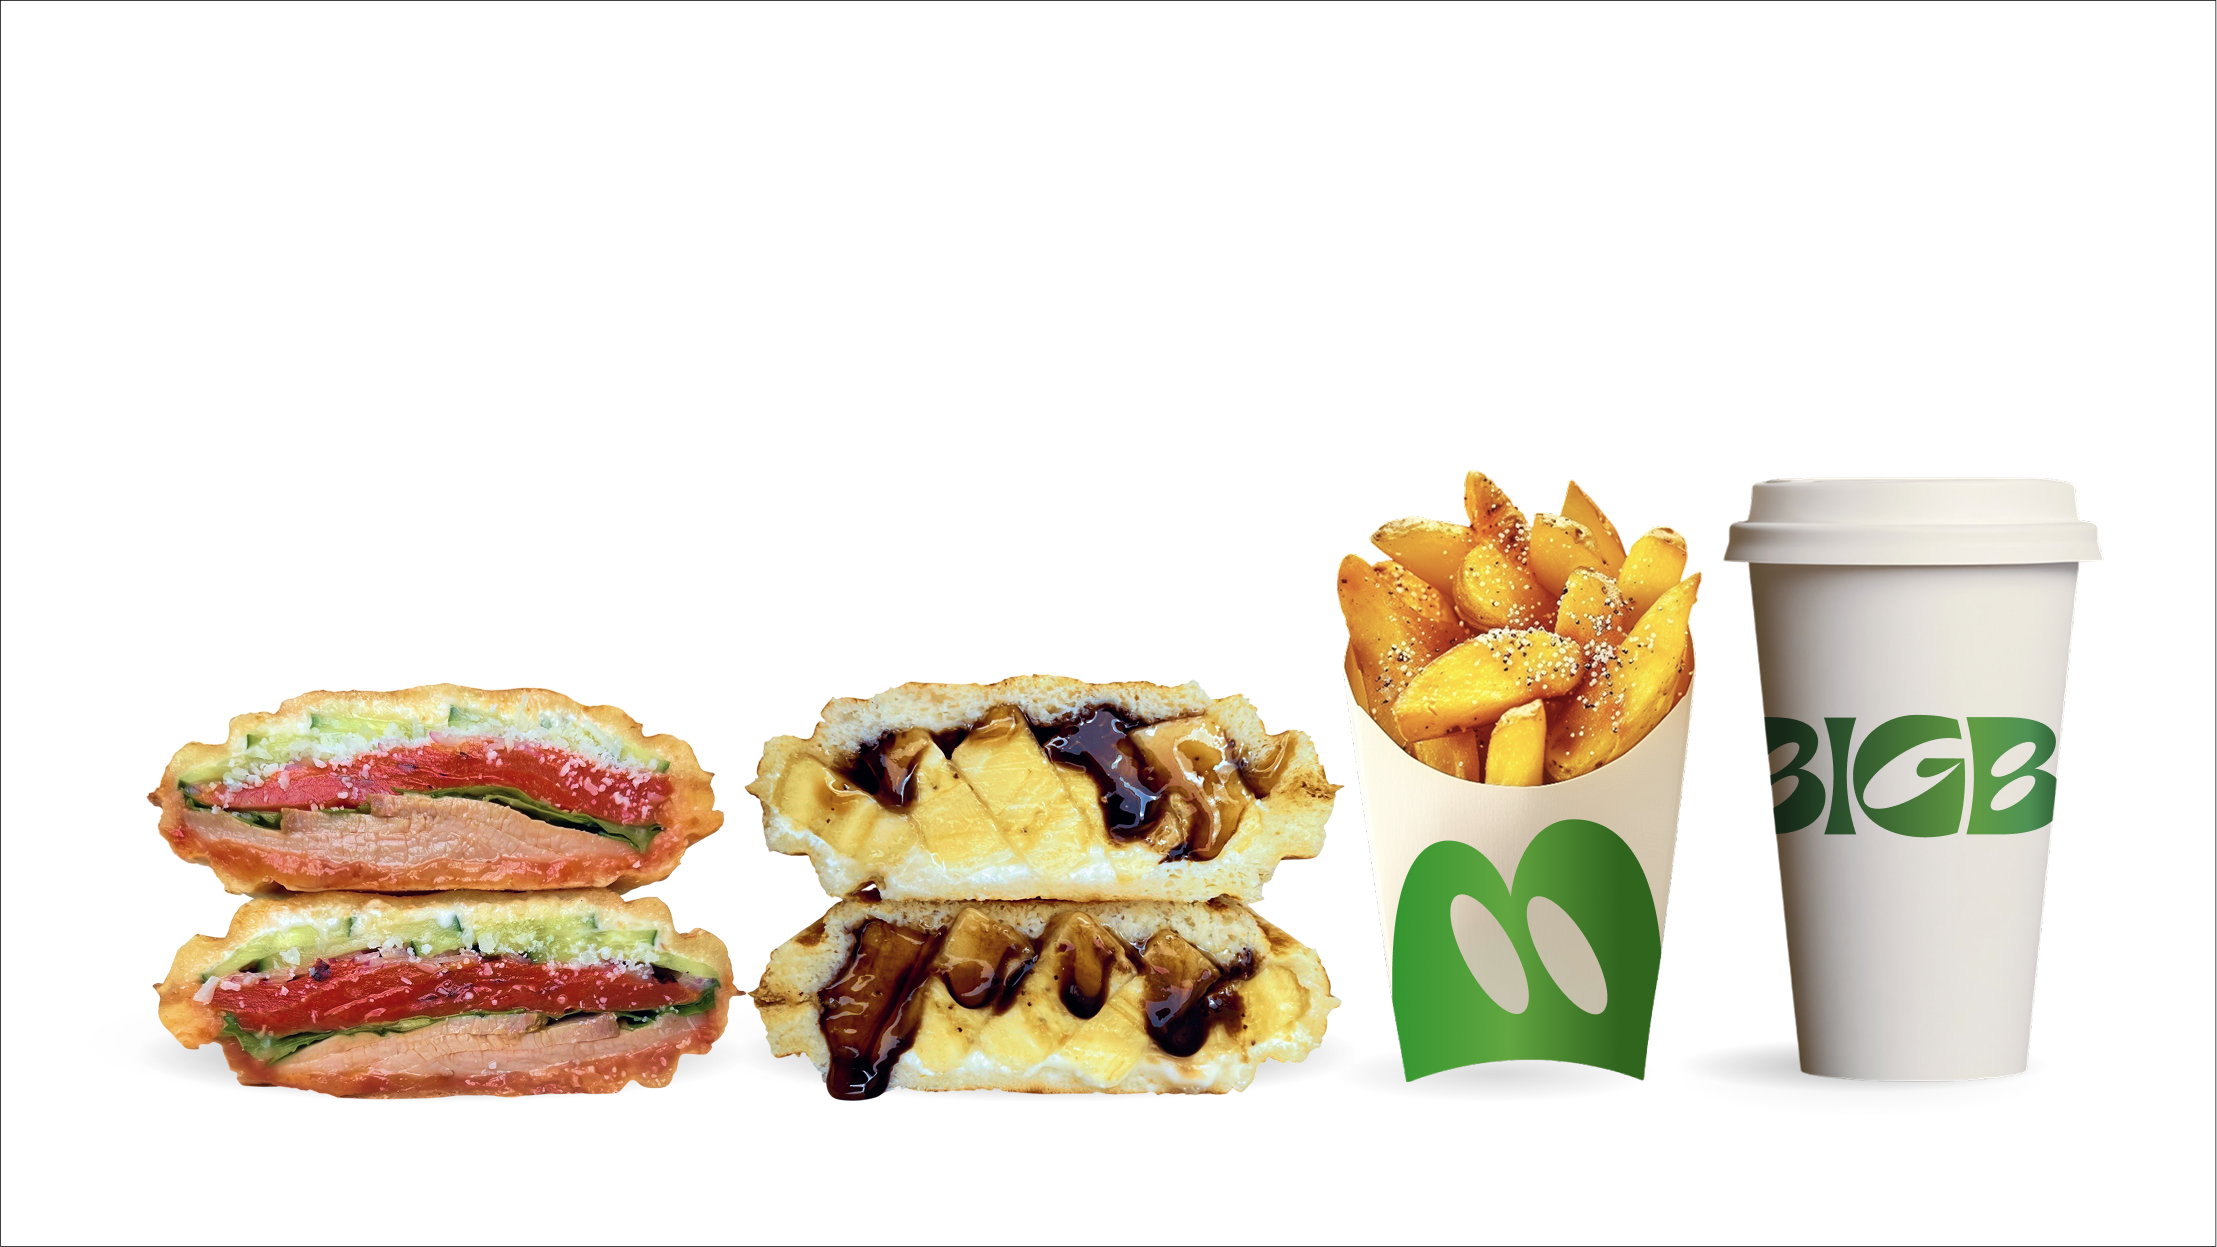
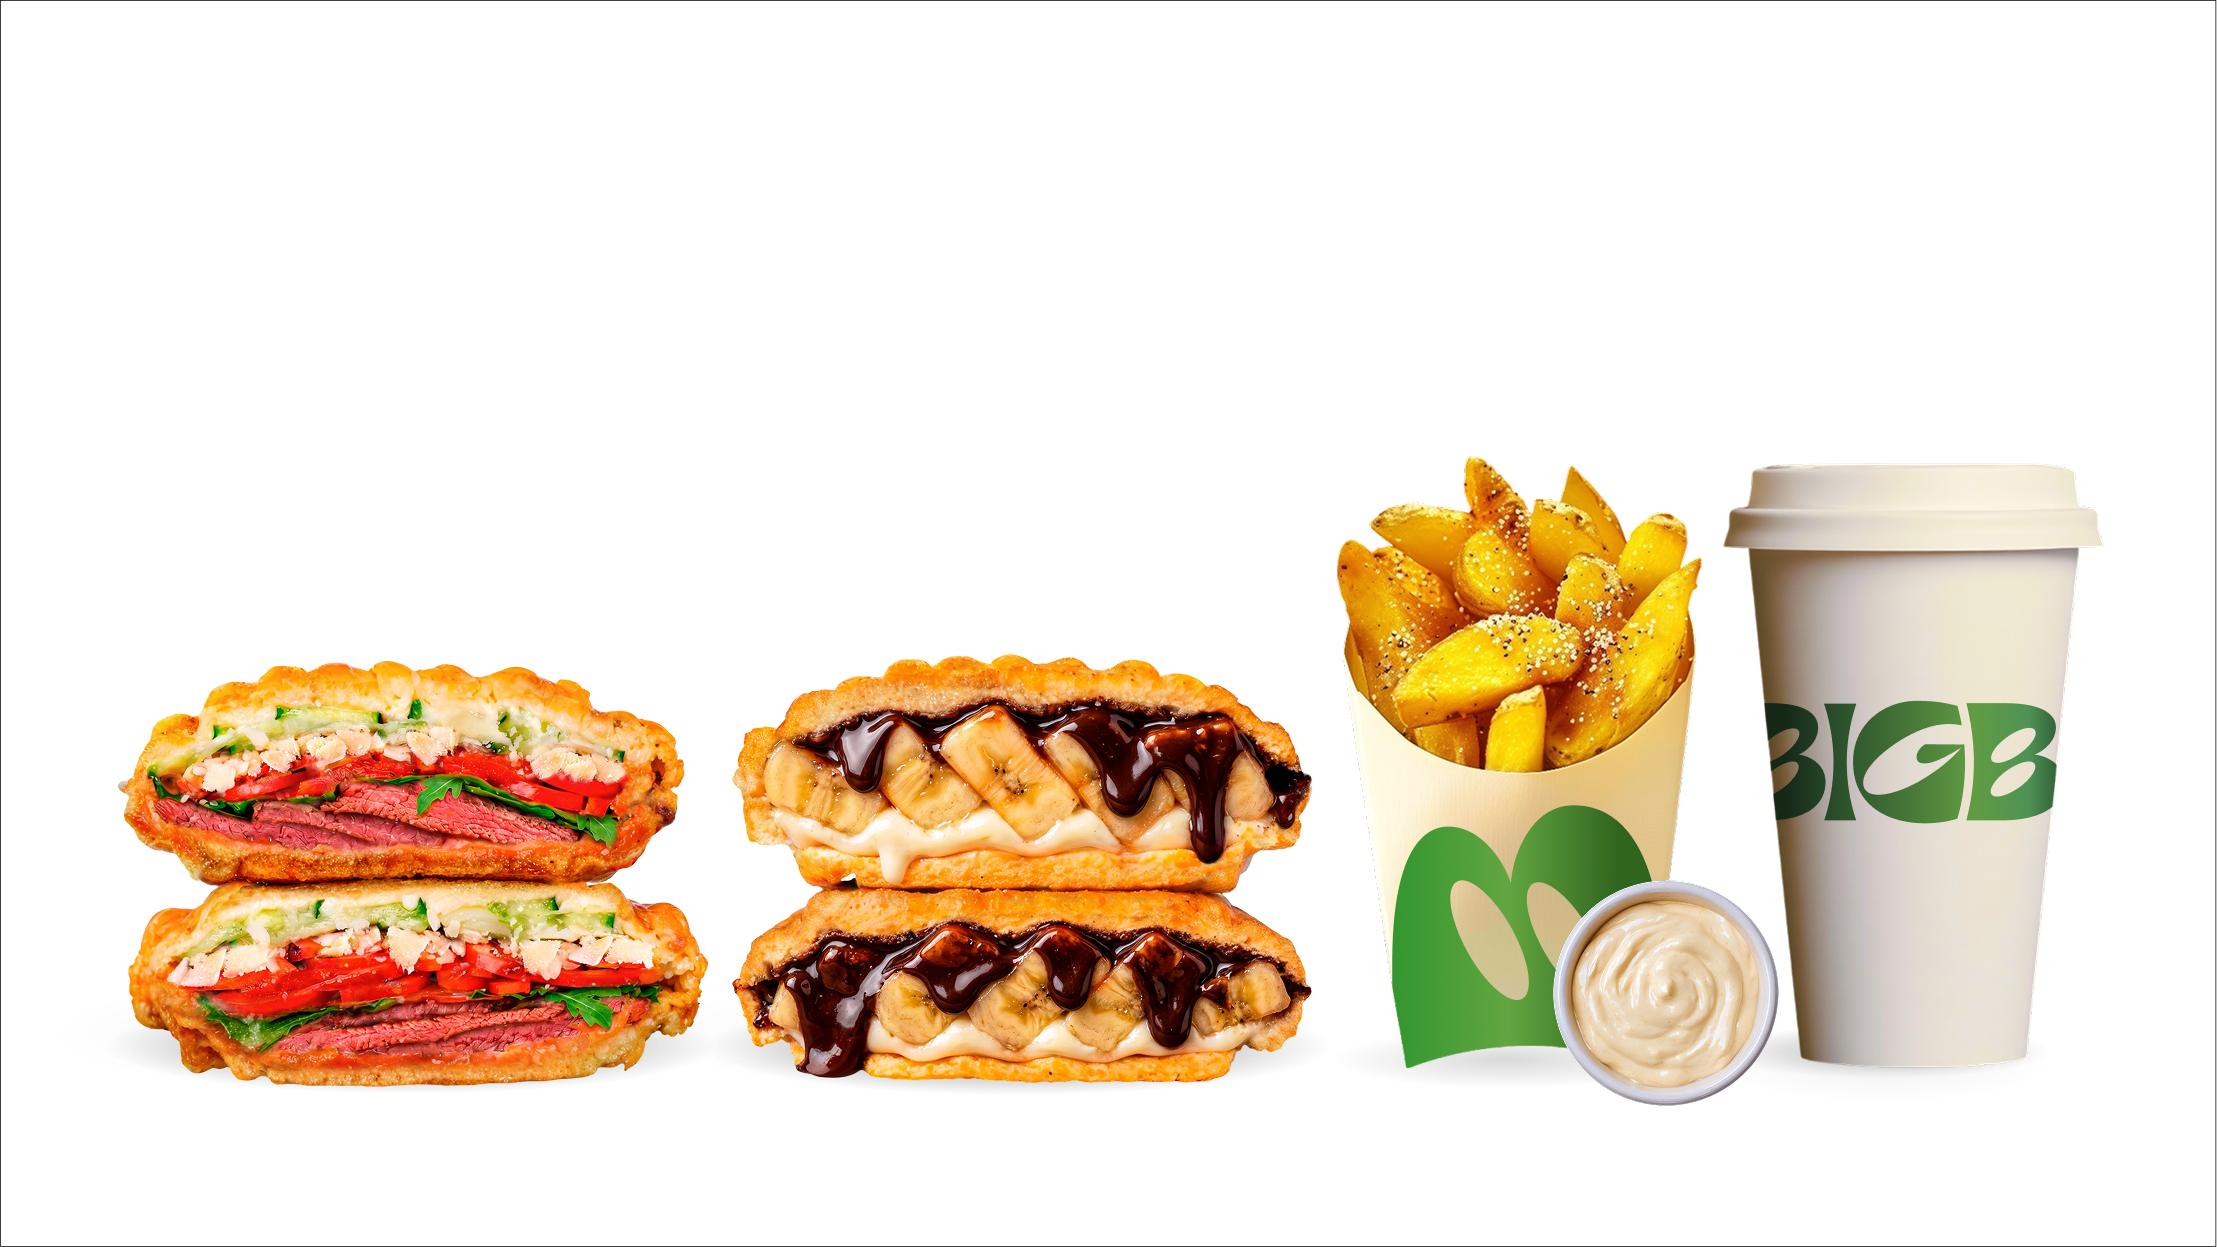
new menu

Changed region(s): [[0.0311, 0.3657, 0.9648, 0.8837]]

diff --git a/2.html b/2.html
@@ -13,6 +13,8 @@
     <img src="screens/2/2.png" class="slide">
     <img src="screens/2/3.png" class="slide">
     <img src="screens/2/4.png" class="slide">
+    <img src="screens/2/5.png" class="slide">
+    <img src="screens/2/6.png" class="slide">
 </div>
 
 <div class="dots"></div>
